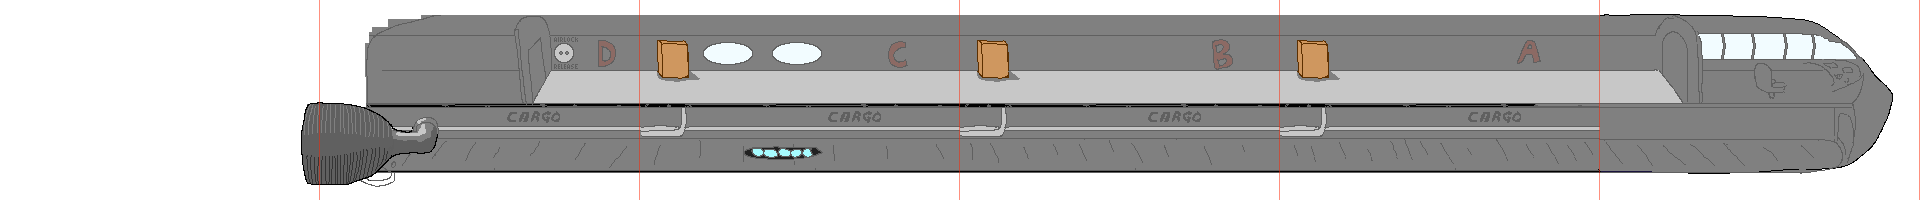
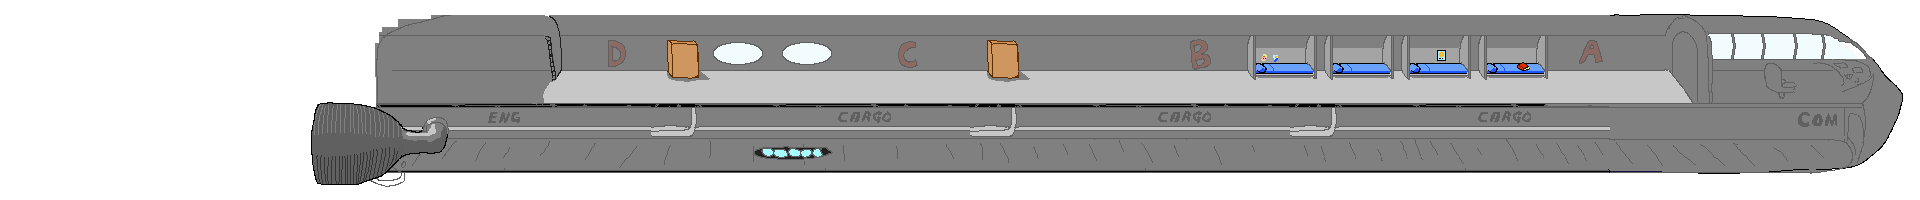
More airlock stuff

diff --git a/trunk/space/game.js b/trunk/space/game.js
@@ -93,9 +93,28 @@ const resources = new Resources(
    
    'id.png',
    'invid.png',
-   
+
+   'bulge.png',
+   'bulgeopen.png',
+
    'airlocktool.png',
    'invairlocktool.png',
+
+   'airlockdoorfg.png',
+   'airlockdoor.png',
+   'airlockdooropen.png',
+   
+   'release.png',
+   'releaseopen.png',
+   
+   'nervous1.png',
+   'nervous2.png',
+   'airdying.png',
+   'airbody.png',
+
+   'airlockclosed1.png',
+   'airlockclosed2.png',
+   'airlockclosed3.png',
    
    'invextinguisher.png',
    'extinguisher.png',
@@ -379,7 +398,7 @@ function ScriptDelay(fr) {
 }
 
 // Wait until function returns true
-function ScriptWait(fn) {
+function ScriptAny(fn) {
   this.Done = fn;
   return this;
 }
@@ -431,6 +450,11 @@ function InitGame() {
   
   window.phase = PHASE_GAME;
 
+  window.fgs = [];
+  let fgs = window.fgs;
+  fgs.push({f: EzFrames(['airlockdoorfg', 1]),
+	    x: 523, y: 15});
+  
   window.ents = {};
   let ents = window.ents;
   ents.grateguy = Human();
@@ -442,6 +466,14 @@ function InitGame() {
   ents.grateguy.deathanim = EzFrames(['grateguydeath1', 20,
 				      'grateguydeath2', 30,
 				      'grateguydeath3', 500]);
+
+  ents.airguy = Human();
+  ents.airguy.nervousframes = EzRL(['nervous1', 3,
+				    'nervous2', 3]);
+  ents.airguy.deathanim = EzFrames(['airdying', 2]);
+  ents.airguy.worldx = 494;
+  ents.airguy.worldy = 89;
+  // ents.airguy.nervous = true;
   
   ents.captain = Human();
   ents.captain.worldx = 1800;
@@ -499,18 +531,7 @@ function InitGame() {
   items.egg3.invy = 0;
   items.egg4.invx = 6;
   items.egg4.invy = 0;
-  
-  items.airlocktool = new Item('TOOL',
-                               ['invairlocktool', 1],
-                               ['airlocktool', 1],
-                               [' **',
-                                ' * ',
-                                '** ']);
-  items.airlocktool.lookstring = "WIGGLY METAL";
-  items.airlocktool.worldx = 1180;
-  items.airlocktool.worldy = 70;
-  // XXX actionx
-  
+    
   items.id = new Item('CARD',
                       ['invid', 1],
                       ['id', 1],
@@ -569,6 +590,72 @@ function InitGame() {
 			       ['screwdriver', 1],
 			       ['***']);
 
+  items.bulge = new Item('BULGE',
+			 ['bug', 1],
+			 ['bulge', 1],
+			 []);
+  items.bulge.worldx = 1333;
+  items.bulge.worldy = 55;
+  items.bulge.actionx = 1336;
+  items.bulge.actiony = 82;
+  items.bulge.openframes = EzFrames(['bulgeopen', 1]);
+  items.bulge.open = false;
+  items.bulge.grabbable = false;
+  
+  items.airlocktool = new Item('TOOL',
+                               ['invairlocktool', 1],
+                               ['airlocktool', 1],
+                               [' **',
+                                ' * ',
+                                '** ']);
+  items.airlocktool.lookstring = "WIGGLY METAL";
+  // items.airlocktool.worldx = 1180;
+  // items.airlocktool.worldy = 70;
+
+  // Outside airlock
+  items.release1 = new Item('PORT',
+			   ['bug', 1],
+			   ['release', 1],
+			    []);
+  items.release1.openframes = EzFrames(['releaseopen', 1]);
+  items.release1.worldx = 562;
+  items.release1.worldy = 36;
+  items.release1.grabbable = false;
+  items.release1.open = false;
+  items.release1.actionx = 599;
+  items.release1.actiony = 75;
+
+  // Inside airlock
+  items.release2 = new Item('PORT',
+			   ['bug', 1],
+			   ['release', 1],
+			   []);
+  items.release2.openframes = EzFrames(['releaseopen', 1]);
+  items.release2.worldx = 490;
+  items.release2.worldy = 36;
+  items.release2.grabbable = false;
+  items.release2.open = false;
+  items.release2.actionx = 432;
+  items.release2.actiony = 77;
+
+  items.airbody = new Item('BODY',
+			   ['bug', 1],
+			   ['airbody', 1],
+			   []);
+  items.airbody.grabbable = false;
+  items.airbody.haseggs = false;
+  items.airbody.worldx = null;
+
+  items.airlockdoor = new Item('DOOR',
+			       ['bug', 1],
+			       ['airlockdoor', 1],
+			       []);
+  items.airlockdoor.openframes = EzFrames(['airlockdooropen', 1]);
+  items.airlockdoor.grabbable = false;
+  items.airlockdoor.worldx = 533;
+  items.airlockdoor.worldy = 37;
+  items.airlockdoor.open = false;
+  
   console.log('initialized game');
 }
 
@@ -698,6 +785,8 @@ function Human() {
   human.Draw = function(x, y) {
     if (this.dying) {
       DrawFrame(this.deathanim, x, y);
+    } else if (this.nervous) {
+      this.DrawFacing(this.nervousframes, x, y);
     } else {
       const moving = this.route.length > 0;
 
@@ -953,6 +1042,10 @@ function DrawGame() {
   DrawItemsWhen((item) => item.worldy <= TOPDECKH);
   DrawEntsWhen((ent) => ent.worldy <= TOPDECKH);
 
+  for (let f of window.fgs) {
+    DrawFrame(f.f, f.x - scrollx, f.y);
+  }
+  
   if (show_areas) {
     for (let area of areas) {
       ctx.fillStyle =
@@ -968,7 +1061,9 @@ function DrawGame() {
       }
     }
   }
-    
+
+ 
+  
   if (window.inventoryopen) {
     // Above game stuff: Inventory
     let pos = GrabitemInv();
@@ -1072,6 +1167,13 @@ function DoSentence() {
 
   // Any special casing should go here.
 
+  // Make it easier to just click this thing to see it.
+  if (sentence.verb == VERB_LOOK &&
+      sentence.obj == items.bulge &&
+      !items.bulge.open) {
+    sentence.verb = VERB_GRAB;
+  }
+  
   // Returns true if we're there and can proceed.
   let Goto = (obj) => {
     // Can do from anywhere.
@@ -1117,6 +1219,14 @@ function DoSentence() {
 	obj.worldx = null;
 	obj.worldy = null;
 	sentence = null;
+      } else if (obj == items.bulge && !items.bulge.open) {
+	items.bulge.open = true;
+	// spawn tool
+	items.airlocktool.worldx = 1346;
+	items.airlocktool.worldy = 68;
+	items.airlocktool.actionx = 1353;
+	items.airlocktool.actiony = 94;
+
       } else {
 	player.Say("I CAN'T PICK IT UP");
 	sentence = null;
@@ -1136,7 +1246,6 @@ function DoSentence() {
 	new ScriptDo(() => {
 	  // Put player in reach-up state.
 	  player.reachingup = true;
-	  // XXX play grate anim.
 	}),
 	new ScriptDelay(10),
 	new ScriptDo(() => {
@@ -1160,6 +1269,10 @@ function DoSentence() {
 	  items.screwdriver.worldy = 144;
 	  items.screwdriver.actionx = 1194;
 	  items.screwdriver.actiony = 144;
+
+	  // Better if this happened when you see him / talk to
+	  // him, but, ...
+	  ents.airguy.nervous = true;
 	}),
 	new ScriptSay(player, "DIE!"),
       ];
@@ -1254,7 +1367,8 @@ function DoSentence() {
     }
 
     if (sentence.obj1 == items.screwdriver &&
-	sentence.obj2 == items.grate) {
+	sentence.obj2 == items.grate &&
+	!items.grate.open) {
       synchronous = true;
       player.reachingup = true;
       player.facingleft = false;
@@ -1269,6 +1383,74 @@ function DoSentence() {
       return;
     }
 
+    // Both releases operate in tandem.
+    if (sentence.obj1 == items.airlocktool &&
+	(sentence.obj2 == items.release1 ||
+	 sentence.obj2 == items.release2)) {
+
+      // New open state.
+      let open = !items.release1.open;
+      // Flip together.
+      items.release1.open = open;
+      items.release2.open = open;
+
+      // Enable airlock door area, and airlock area
+      if (open) {
+	// Airlock is open
+	airlockarea.enabled = true;
+	airlockdoorarea.enabled = false;
+	items.airlockdoor.open = false;
+      } else {
+	// Door to ship is open
+	airlockarea.enabled = false;
+	airlockdoorarea.enabled = true;
+	items.airlockdoor.open = true;
+      }
+	
+      // If this is the first time, launch the human out
+      if (ents.airguy.worldx != null) {
+	synchronous = true;
+	player.facingleft = true;
+	script = [
+	  new ScriptSay(ents.airguy, "Wh..."),
+	  new ScriptDo(() => {
+	    ents.airguy.dying = true;
+	  }),
+	  new ScriptAny(() => {
+	    ents.airguy.msgq = ['Noooo...'];
+	    ents.airguy.msgtime = 5;
+	    ents.airguy.worldx -= 3;
+	    if (ents.airguy.worldx < 250) {
+	      // despawn
+	      ents.airguy.worldx = null;
+	      // spawn body
+	      items.airbody.worldx = 200;
+	      items.airbody.worldy = 110;
+	      items.airbody.actionx = 213;
+	      items.airbody.actiony = 155;
+
+	      // spawn second ID
+	      
+	      return true;
+	    }
+	    return false;
+	  })
+	];
+      }
+	
+      /*
+      synchronous = true;
+      player.facingleft = true;
+      script = [
+	new ScriptDo(() => {
+	});
+	];
+      */
+      
+      sentence = null;
+      return;
+    }
+    
     
     player.Say("I DON'T KNOW HOW TO DO THAT");
     sentence = null;
@@ -1365,15 +1547,18 @@ function Step(time) {
 
 
   // Update here or in Draw?
-  if (player.worldx - SCROLLMARGIN < scrollx) {
-    let target = player.worldx - SCROLLMARGIN;
+  let smleft = player.worldx < 655 ? 230 : SCROLLMARGIN;
+  let smright = player.worldx < 655 ? 80 : SCROLLMARGIN;
+  if (player.worldx - smleft < scrollx) {
+    let target = player.worldx - smleft;
     scrollx = Math.round(((scrollx * 7) + target) * 0.125);
     // scrollx--;
-  } else if (player.worldx + SCROLLMARGIN > scrollx + WIDTH) {
-    let target = player.worldx + SCROLLMARGIN - WIDTH;
+  } else if (player.worldx + smright > scrollx + WIDTH) {
+    let target = player.worldx + smright - WIDTH;
     // scrollx++;
     scrollx = Math.round(((scrollx * 7) + target) * 0.125);
   }
+  if (scrollx < 0) scrollx = 0;
   
   UpdateSong();
 
@@ -1400,7 +1585,25 @@ function Step(time) {
 function InitAreas() {
   areas = [];
 
+  areas.push(
+    // Space (open)
+    new Area(19, 41, 297, 180),
+    // Space (above engine)
+    new Area(297, 41, 347, 102));
+
+  window.airlockarea = new Area(347, 73, 393, 102);
+  window.airlockarea.enabled = false;
   
+  areas.push(
+    airlockarea,
+    // Airlock chamber
+    new Area(393, 73, 530, 102)
+  );
+  
+  window.airlockdoorarea = new Area(530, 72, 553, 95);
+  airlockdoorarea.enabled = false;
+  areas.push(airlockdoorarea);
+
   areas.push(
     // Upper deck near airlock
     new Area(553, 73, 657, 102),
@@ -1553,7 +1756,8 @@ function CanvasMousedownGame(x, y) {
     // Special case for USE...
     // (could also do for OVO but I think this should be a little
     // puzzle?)
-    if (sentence.verb == VERB_USE &&
+    if ((sentence.verb == VERB_USE ||
+	 sentence.verb == VERB_OVO) &&
 	sentence.obj1 == null) {
       window.inventoryopen = true;
     }
@@ -1732,9 +1936,17 @@ document.onkeydown = function(event) {
   case 52:
   case 53:
   case 54:
+    player.worldy = 153;
     if (kc == 52) {
       ents.grateguy.worldx = 1229;
       ents.grateguy.worldy = 86;
+    } else if (kc == 51) {
+      player.worldy = 87;
+      items.airlocktool.invx = null;
+      items.airlocktool.worldx = 737;
+      items.airlocktool.worldy = 66;
+      items.egg1.invx = null;
+      items.egg2.invx = null;
     }
     player.worldx = WIDTH * (kc - 49 + 0.5); break;
     /*
